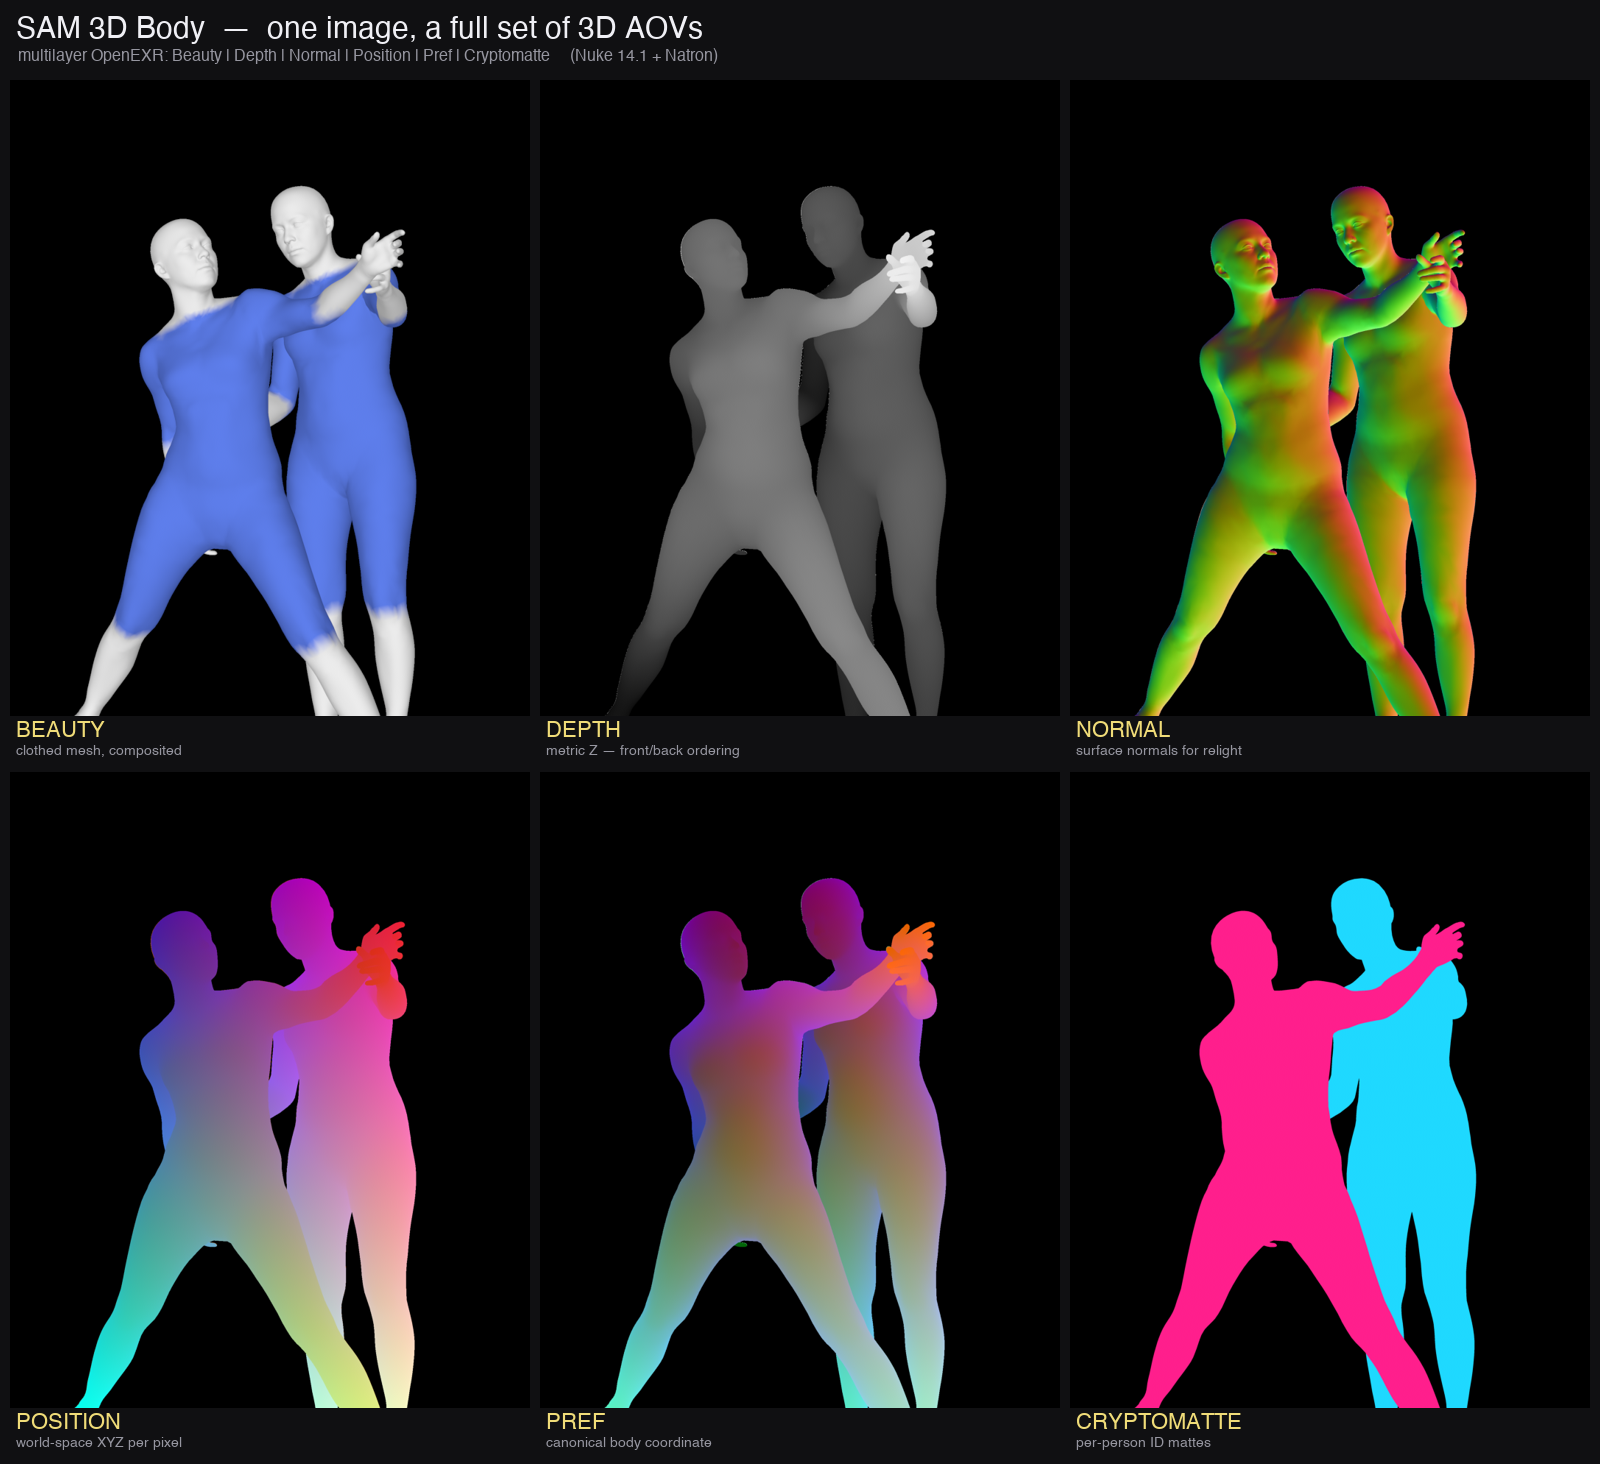
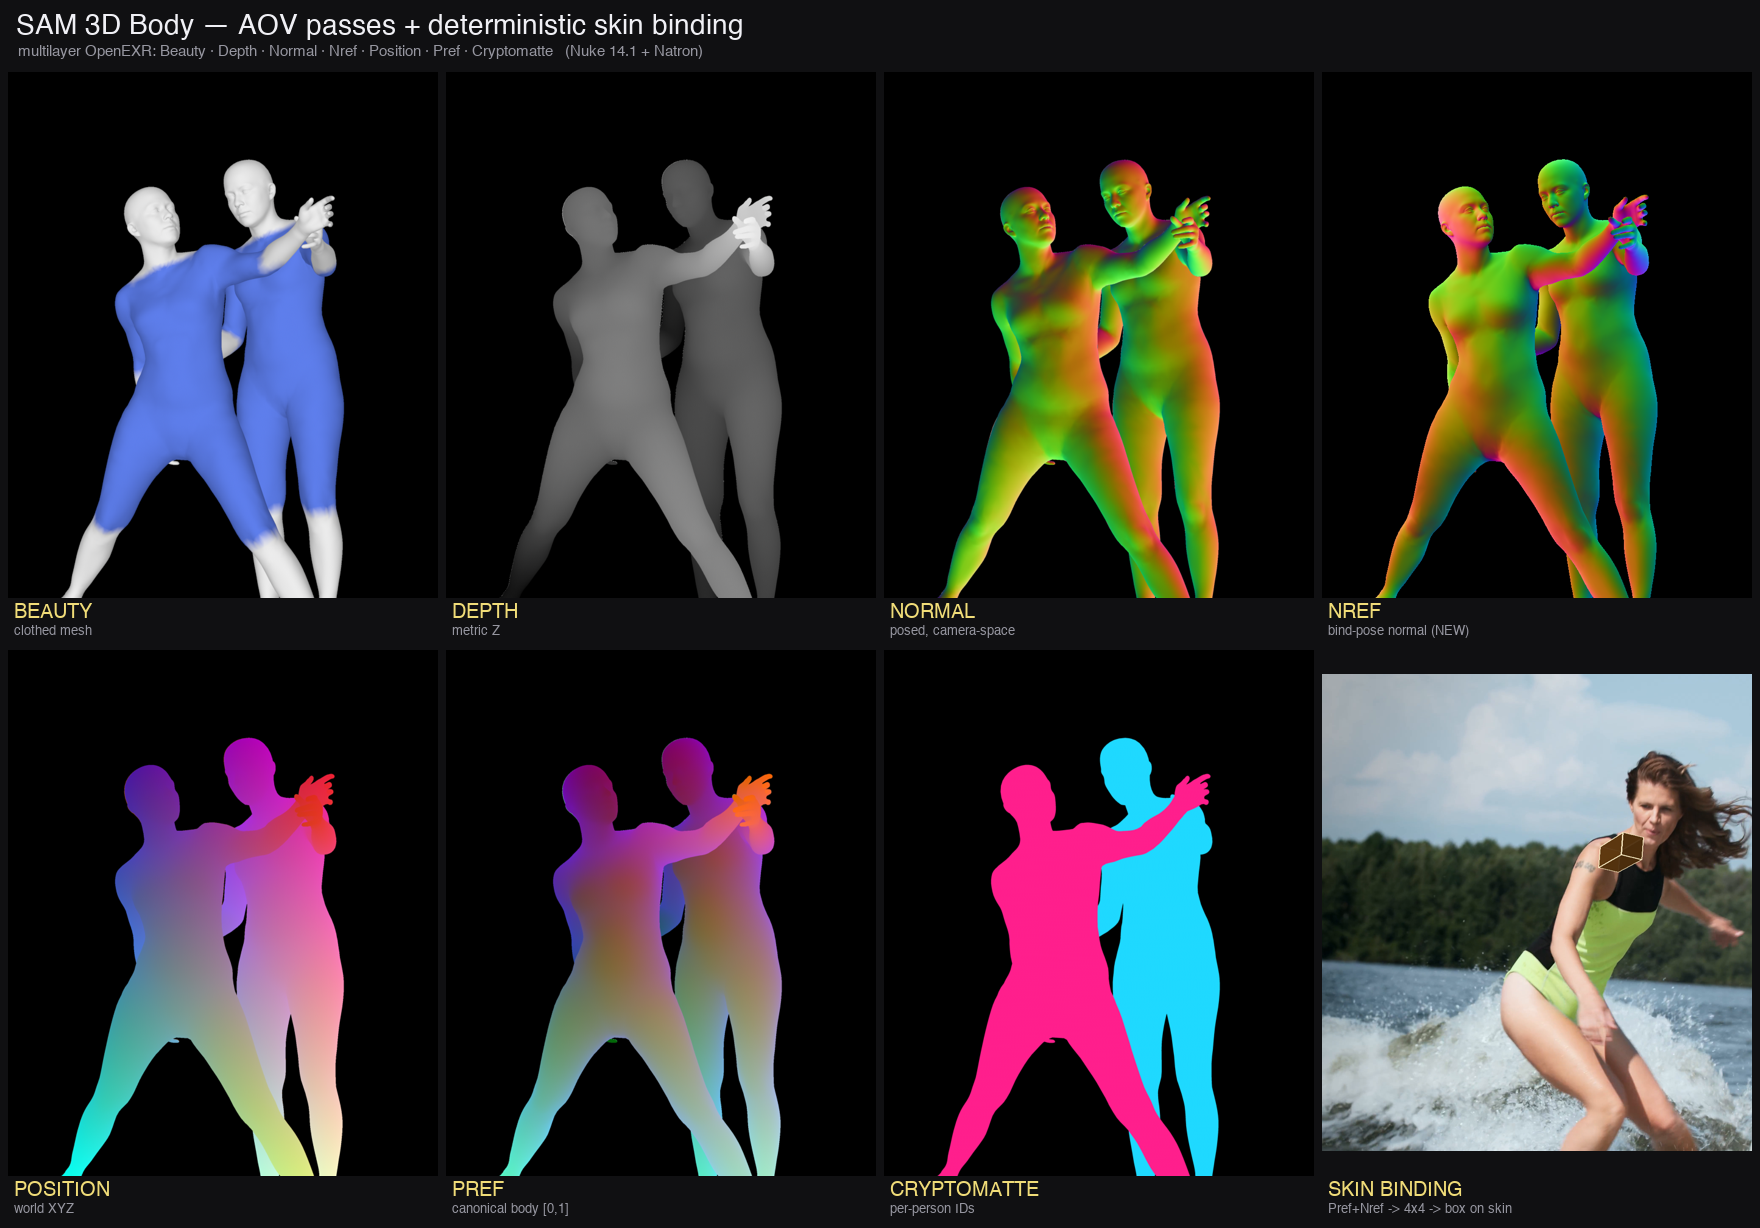
docs: add Nref to the AOV contact sheet + deterministic skin-binding gif (#32)
- Regenerate the README AOV contact sheet to include the new Nref (bind-pose
  normal) pass, and add an 8th panel showing the deterministic skin binding it
  enables (a box pinned to a wakesurfer's shoulder).
- Add docs/skin_bind.gif (low-res) — the Pref+Nref -> 4x4 box tracking a surface
  point across 48 frames — referenced from the README and docs/AOVS.md.

Wraps up the AOV validation + Nref (#30) / skin-binding exploration.

diff --git a/README.md b/README.md
@@ -24,11 +24,18 @@ mesh(es) from a single frame and renders them **in neutral grey with a coverage 
 > [humbaba](https://github.com/samhodge-tokgan/humbaba) (DepthAnything3) and reuses its cross-platform ORT/OFX scaffold.
 
 <p align="center">
-  <img src="docs/screenshots/aov_contact_sheet.png" width="720" alt="One frame of two overlapping people, broken out into Beauty, Depth, Normal, Position, Pref and Cryptomatte AOV passes"><br>
-  <em>One frame → a full <b>multi-plane AOV</b> set — <b>Beauty · Depth · Normal · Position · Pref · Cryptomatte</b> — as a single
+  <img src="docs/screenshots/aov_contact_sheet.png" width="760" alt="One frame of two overlapping people, broken out into Beauty, Depth, Normal, Nref, Position, Pref and Cryptomatte AOV passes, plus a box bound to a wakesurfer's skin"><br>
+  <em>One frame → a full <b>multi-plane AOV</b> set — <b>Beauty · Depth · Normal · Nref · Position · Pref · Cryptomatte</b> — as a single
   multilayer OpenEXR (native single-node in <b>Natron</b>; via the <b>Output AOV</b> stack in Nuke/Flame). The <b>2.5D data</b>
   (metric depth, world position, normals, per-person ID mattes) characterises the humans in the shot for scene understanding,
-  relighting and comp. Two overlapping subjects, cleanly separated by Cryptomatte ID.</em>
+  relighting and comp; the canonical <b>Pref + Nref</b> pair gives each pixel a stable surface frame for
+  <b><a href="docs/skin_bind.gif">deterministic screen-space skin binding</a></b>.</em>
+</p>
+
+<p align="center">
+  <a href="docs/skin_bind.gif"><img src="docs/skin_bind.gif" width="240" alt="A shaded box deterministically bound to a wakesurfer's shoulder, tracking it across 48 frames"></a><br>
+  <em><b>Deterministic skin binding</b> — a box pinned to a surface point via <b>Pref</b> (position) + <b>Nref</b> (orientation) → a per-pixel
+  4×4, tracking the shoulder across frames with no solve. See <b><a href="docs/AOVS.md">docs/AOVS.md</a></b>.</em>
 </p>
 
 - **Input:** RGB(A) frame buffer (sRGB display-referred or ACEScg working space).

diff --git a/docs/AOVS.md b/docs/AOVS.md
@@ -94,7 +94,9 @@ derivatives); **Cryptomatte** adds per-person separation.
 - **Deterministic screen-space skin binding (Pref + Nref)** — every covered pixel
   carries both its **canonical surface frame** — `Pref` (bind position) + `Nref`
   (bind normal) + `ST` (surface uv) — and its **posed/observed frame** — `Position`
-  + `Normal` (camera space). That per-pixel bind↔posed correspondence is a **4×4**
+  + `Normal` (camera space). ![skin binding](skin_bind.gif) *(a box pinned to a
+  wakesurfer's shoulder, tracking it across 48 frames with no solve.)* That
+  per-pixel bind↔posed correspondence is a **4×4**
   (position + rotation, + scale from local metric) mapping canonical to camera;
   curve/Kalman-smooth it for a usable tracked locator. Because the canonical key is
   fixed per surface point, the binding is **deterministic** (same surface point →